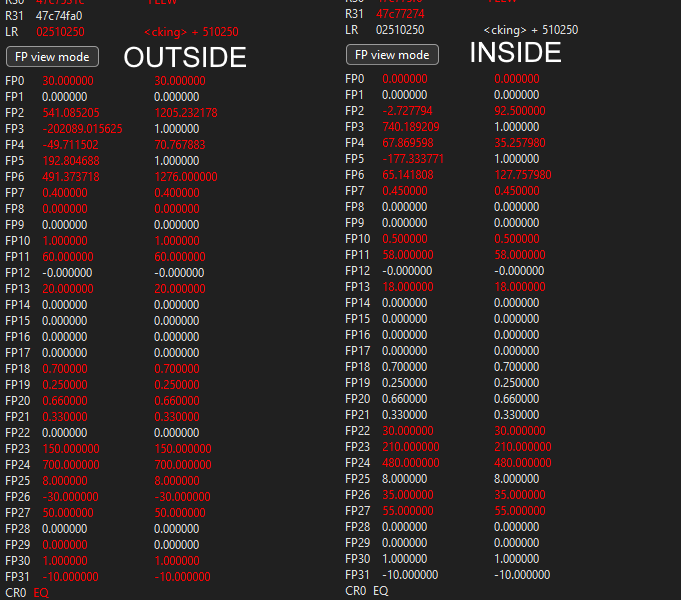
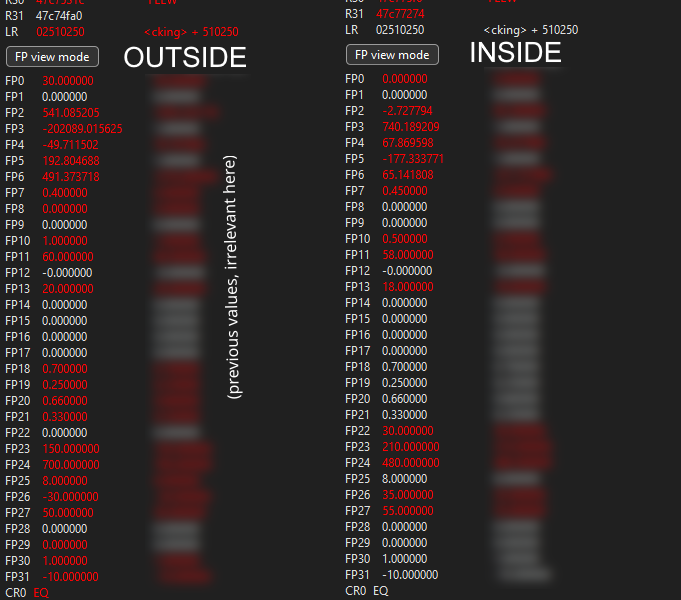
Blur previous values

Changed region(s): [[0.2159, 0.12, 0.37, 0.99], [0.7093, 0.09, 0.8326, 0.99]]

diff --git a/templates/blog/2026-07-26-how-the-wind-waker-hd-camera-patch-was-made.md b/templates/blog/2026-07-26-how-the-wind-waker-hd-camera-patch-was-made.md
@@ -13,7 +13,7 @@ So, the very next day, armed with Cemu on my PC and absolutely no prior knowledg
 The first thing I thought to do was to find any and all memory locations where the game stores the reading of the Y axis of the right stick, so that I could study how the game uses it and either negate it, or make a patch to have the code responsible for moving the camera read it as negated.  
 (I do know from experience that memory locations **will** move around between different sessions due to memory being allocated differently)
 
-I immediately jumped to Cheat Engine (which means that I was using Windows for this), knowing from experience that stick readings are usually stored either as a float/double ranging from -1 to +1, or as an integer where 0 is the lowest position, and whatever the maximum value of the data type the code is using as the highest position, or vice versa.  
+I immediately jumped to Cheat Engine (which means that I was using Windows for this), knowing from experience that stick readings are usually stored either as a float/double ranging from -1 to +1, or as an integer where 0 is the lowest position, and whatever the maximum value of the data type the code is using is the highest position, or vice versa.  
 But after a few minutes of not being able to find anything, I remembered PowerPC is big endian, so even if I did find anything, it likely wouldn't've been useful.
 
 I dug around the Cemu UI a bit, and found out that it supports logging for different things, including internal CafeOS modules that are reimplemented in the emulator, one of them being *Input API*, and that by enabling it the emulator starts dumping logs regarding the *VPAD*, which is how code on the Wii U calls the Gamepad.
@@ -54,7 +54,7 @@ Unfortunately, due to the sheer complexity of this code, and the numerous functi
 
 So instead, I tried looking at the floating point registers, noting down their values both on the island and inside the minigame location, and seeing if I could spot anything interesting.  
 ![FP registers comparison](/img/blog/2026-07-26/fp1.png)  
-(ignore the right column, those are previous values the registers used to contain, the current ones are on the left)  
+
 FP26 caught my eye, as it was the only one whose sign would invert between the two locations and remain constant inside a location, and I soon realized that if I manually changed it's value while holding the stick up, it would cause the camera to move towards a different angle, with positive values making the camera move above Link, and negative values below.  
 So I used Ghidra to find other locations where that register is used in, and I found it being passed as a parameter to a function being called, along with another variable that's loaded into a register right before branching.  
 ![Function in Ghidra](/img/blog/2026-07-26/ghidra2.png)  
